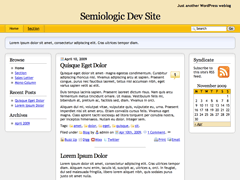
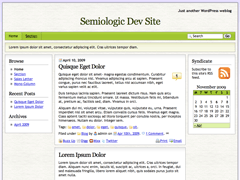
update screenshots + change default skin
git-svn-id: file:///Users/michaelkoepke/svn/semiologic/themes/sem-reloaded/trunk@3260 6c9c31c4-cb3d-4424-af3d-876279169c7e

diff --git a/inc/install.php b/inc/install.php
@@ -6,7 +6,7 @@
 #
 
 # Skin, layout, font
-$sem_options['active_skin'] = 'copywriter-gold';
+$sem_options['active_skin'] = 'classy-olive';
 $sem_options['active_layout'] = 'mts';
 $sem_options['active_font'] = '';
 
